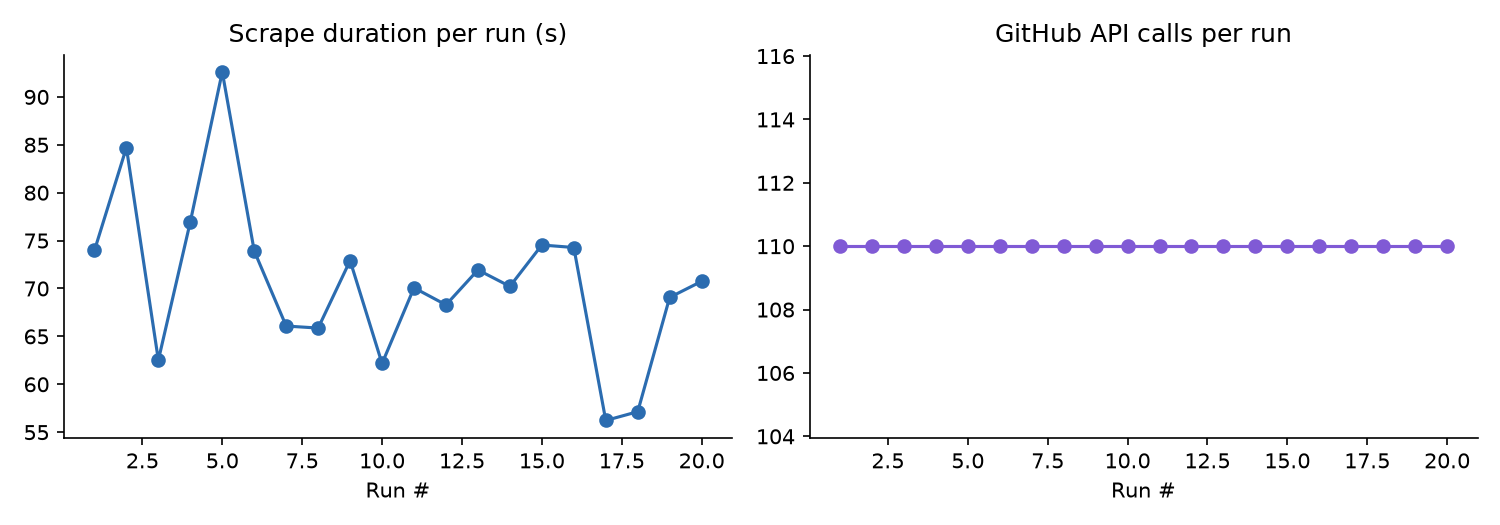
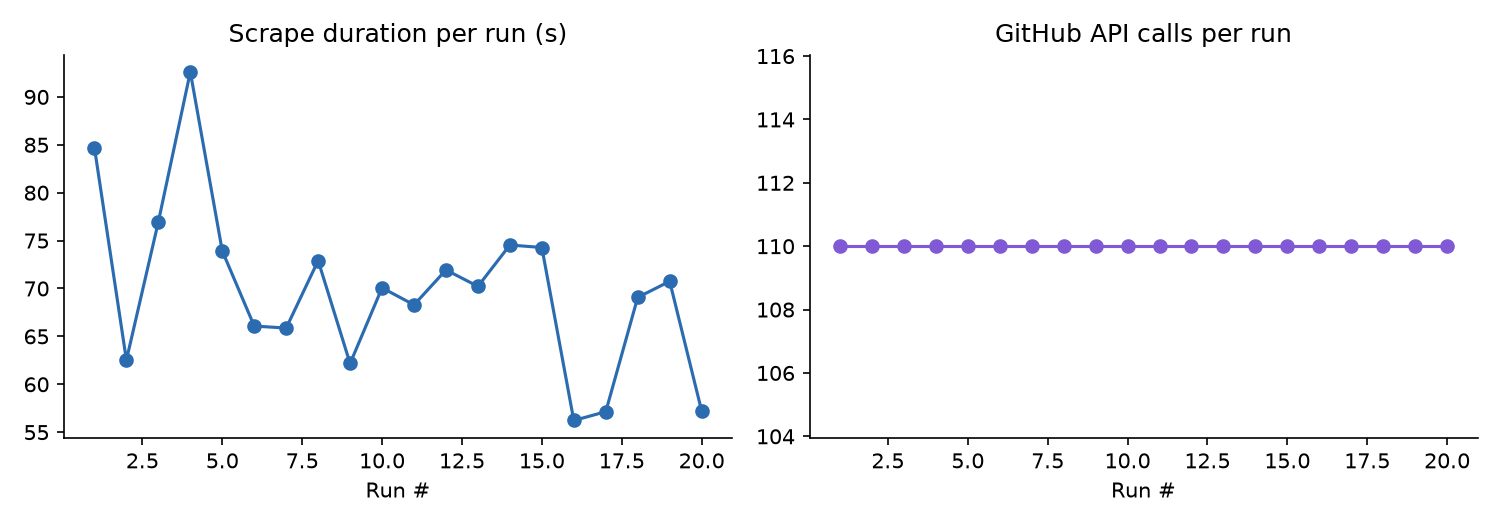
Weekly issue tracker refresh

Changed region(s): [[0.0613, 0.1219, 0.4907, 0.8229], [0.46, 0.7619, 0.4907, 0.7924]]

diff --git a/README.md b/README.md
@@ -81,7 +81,7 @@ See [CONTRIBUTING.md](CONTRIBUTING.md) for the full contributor workflow — inc
 
 <!-- TRACKER:START -->
 
-_Last updated: 2026-08-19 23:28 UTC_
+_Last updated: 2026-08-19 23:46 UTC_
 
 _Tracking **18** upstream repos, **385** relevant open issues._
 
@@ -296,7 +296,7 @@ _Tracking **18** upstream repos, **385** relevant open issues._
 
 <!-- METRICS:START -->
 
-_Last run: 2026-08-19 23:26 UTC, took **70.7s**, **110** GitHub API calls, **4670/5000** rate limit remaining._
+_Last run: 2026-08-19 23:45 UTC, took **57.2s**, **110** GitHub API calls, **4890/5000** rate limit remaining._
 
 ![Scrape metrics trend](assets/metrics_trend.png)
 
